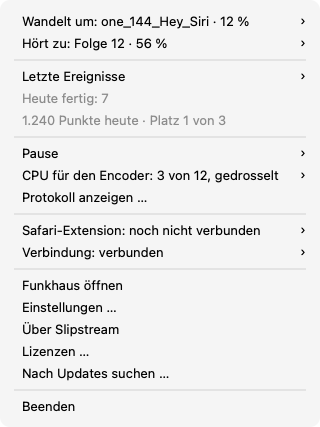
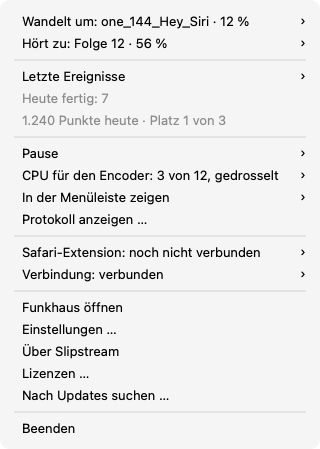
release-notes/1.3.6.md: the narrow menu; the width test covers #27's and #28's lines
The menu with #27 and #28 in it still measures 320 pt (docs/menu/main.png).

diff --git a/Tests/HelperCoreTests/MenuWidthTests.swift b/Tests/HelperCoreTests/MenuWidthTests.swift
@@ -27,7 +27,8 @@ final class MenuWidthTests: XCTestCase {
             "Keine Verbindung zum Encoder", "Encoder gestoppt, neuer Versuch 20:01", "Verbindung: Encoder gestoppt",
             "Tunnel verbunden, letzte Antwort 20:01", "Nicht gekoppelt (nur ProRes)",
             WorkerEvent.Points(today: 123_456, rank: 10, of: 12).line,
-        ] + CPUChoice.efficiencyNoteLines
+            "In der Menüleiste zeigen", "Neu in 1.3.10 …",
+        ] + CPUChoice.efficiencyNoteLines + MenuBarItem.allCases.map(\.label)
         for line in lines {
             XCTAssertLessThanOrEqual(measure(line), MenuLine.width, line)
         }

diff --git a/release-notes/1.3.6.md b/release-notes/1.3.6.md
@@ -14,3 +14,6 @@
 - **In der Menüleiste zeigen** (im Menü und in den Einstellungen, Tab „Menüleiste“): was neben
   dem Symbol steht, etwa Fortschritt, Restzeit, FPS, Kerne, CPU % oder die Punkte heute. Von Haus
   aus steht dort nur beim Umwandeln der Fortschritt.
+- Das Menü ist schmal: keine Zeile ist breiter als „CPU für den Encoder: 12 von 12 Kernen“. Ist
+  die Safari-Extension noch nicht verbunden, steht im Menü ein Untermenü mit den Schritten und
+  „Safari-Erweiterungen öffnen …“.
